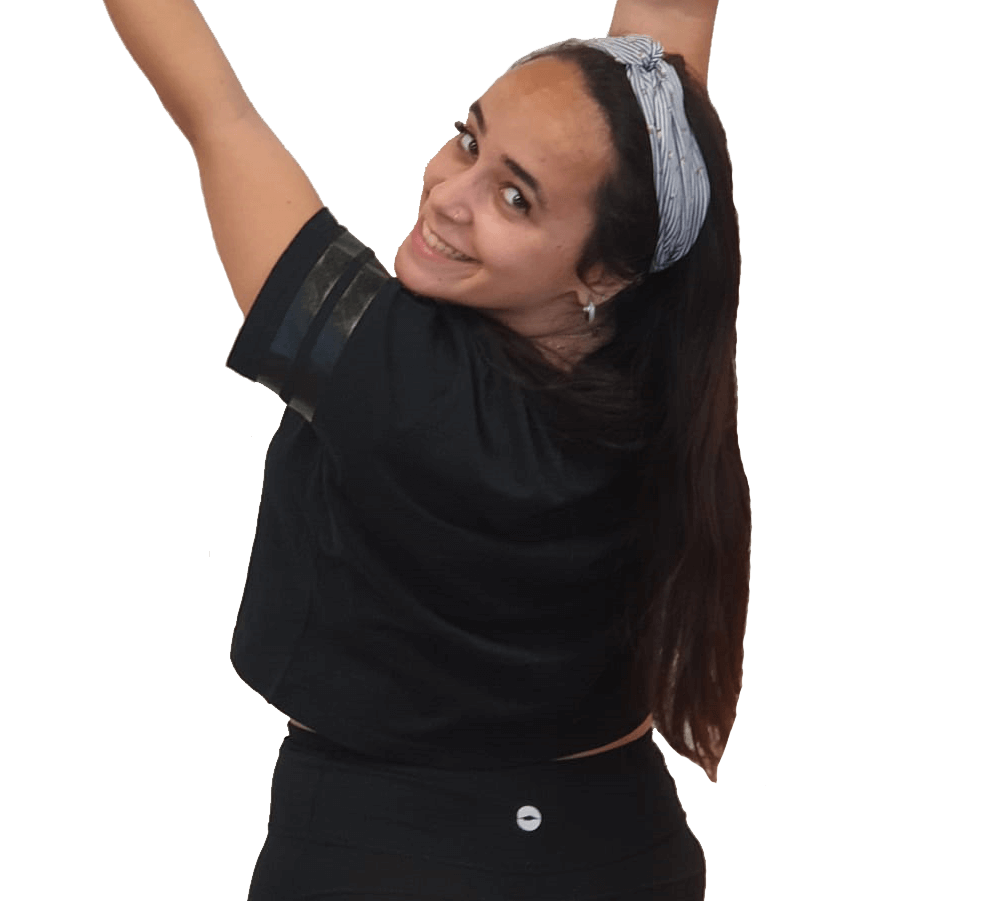
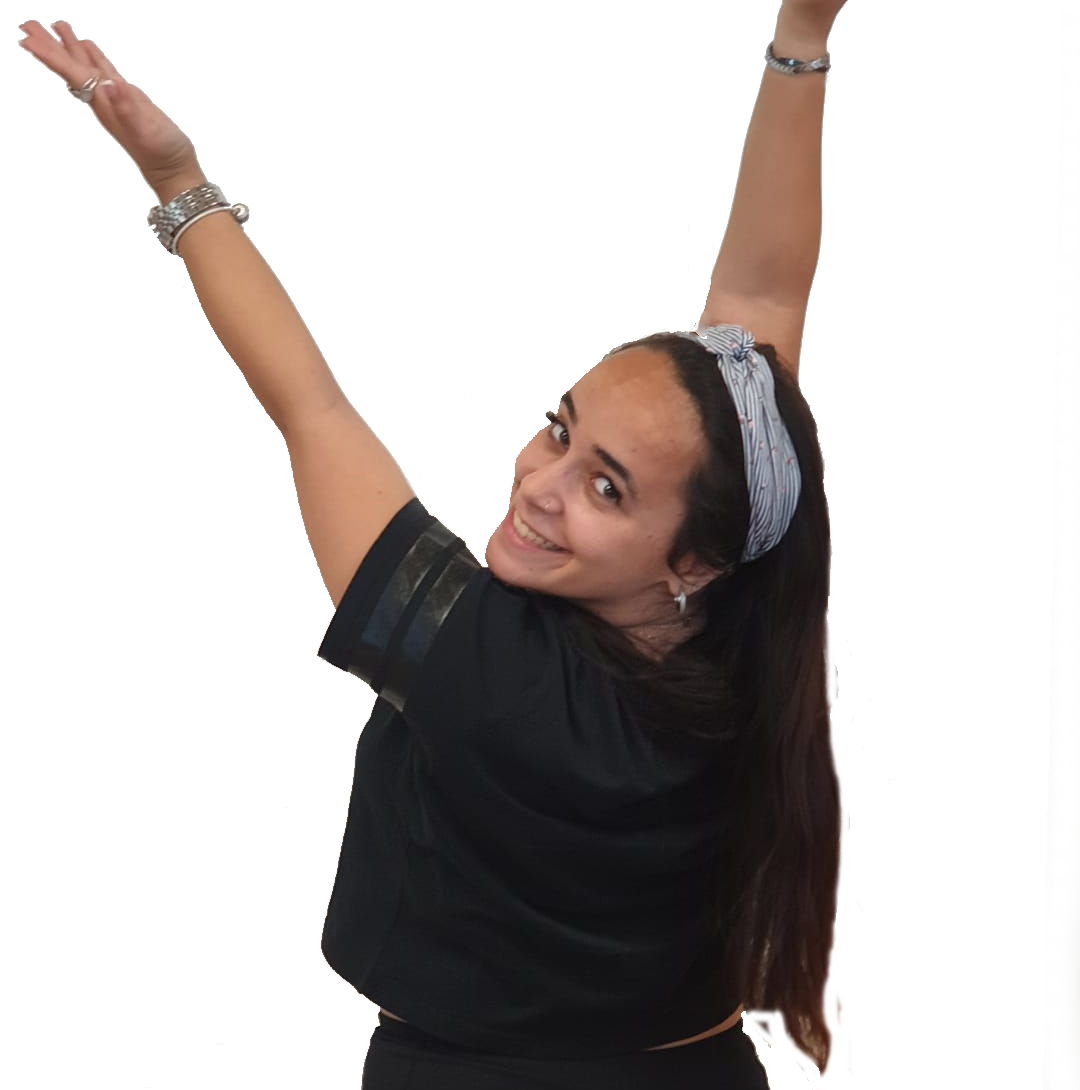
Add files via upload

Changed region(s): [[0.0, 0.0, 0.7887, 1.0], [0.5157, 0.8701, 0.546, 0.9323]]

diff --git a/Amitbageret/about.html b/Amitbageret/about.html
@@ -58,7 +58,7 @@
             <div class="row" style="margin-top: 160px;">
                 <div class="col-sm-12 col-lg-5" style="overflow: hidden;">
                     <div class="circleBase">
-                        <img src="images/girl-first.png" class="girl-home"  alt=" צילום של ליאת מביטה לאחור כשגבה מופנה אלינו ומרימה את ידיה">
+                        <img src="images/girl-left.png" class="girl-home"  alt=" צילום של ליאת מביטה לאחור כשגבה מופנה אלינו ומרימה את ידיה">
                     </div>
                 </div>
                 <div class="col-sm-12 col-lg-2">
@@ -67,14 +67,10 @@
                     <div class="home-slide">
                         <div class="my-slide">
                             <h1>
+							 <br>
                                     <span>
-									"המתבגרת"
-                                    </span>
-                                <br>
-								   האתר לנערה
-                                <br>
-								
-                                המתבגרת
+									אודותנו
+                                   </span>     								
 								
                             </h1>
                         </div>
@@ -93,18 +89,33 @@
                 <div class="col-1 no-padding bubbles-ver" style="background-position: right top;">
                 </div>
 
+				
+
+
+
 
                 <div class="col-10 no-padding">
 					
-					
-                    <div class="row">
+					<div class="col-12" style="color:#175352;">
+							<h2>על האתר שלנו</h2>					   
+											
+                            <h3>'המתבגרת' הוא האתר האולטימטיבי לבנות בגילאי העשרה אשר רוצות לחקור על השינויים שקורים להן, לחפש פתרונות התמודדות למשברים המקיפים אותן והכי חשוב, להבין שהן לא לבד. 
+							<br>
+							<br>
+							העיצוב והתכנים באתר תוכננו כך שהאתר יתאים לסביבתן הטבעית של הנערות, ובכך הן יוכלו להנות מחוויית גלישה מוכרת ונעימה.
+							
+							</h3>
+							<br>
+                            <h2>האתר פותח על ידי</h2>
+					</div>
+                    <div class="row mt-3">
 
                         <div class="col-sm-12 col-lg-4 mb-sm-3 mb-lg-0">
                             <article class="my-card">
                                 <header>
                                     <div class="row no-gutters">
                                         <div class="col-2">
-                                            <img src="images/eat-healthy.png" alt="אייקון של ירקות עם סטטוסקופ מסביב להם">
+                                            <img src="images/hit-logo.jpg" alt="אייקון של סמל המכון הטכנולוגי חולון">
                                         </div>
                                         <div class="col-8 text-center">
                                             <h1>שיראל דנינו</h1>
@@ -164,7 +175,7 @@
                                 <header>
                                     <div class="row no-gutters">
                                         <div class="col-2">
-                                            <img src="images/coping-logo.png" alt="ציור של גבר שעושה שריר עם ידו הימנית">
+                                            <img src="images/hit-logo.jpg" alt="אייקון של סמל המכון הטכנולוגי חולון">
                                         </div>
                                         <div class="col-8 text-center">
                                             <h1>צח נצר</h1>
@@ -180,7 +191,7 @@
                                     <div class="row">
                                         <div class="col-12">
                                             <div class="card-image">
-                                                <img src="images/my.jpg" class="featured-image" alt="צילום סלפי של צח בפארק הקשתות בארצות הברית" data-id="heart-2">
+                                                <img src="images/tzach.png" class="featured-image" alt="צילום סלפי של צח בפארק הקשתות בארצות הברית" data-id="heart-2">
                                                 <div class="heart-animation">
                                                     <img src="images/heart-animation.png" alt="אנימציה של לב מופיע ונעלם בלחיצה כפולה">
                                                 </div>
@@ -210,12 +221,12 @@
                                 </section>
                                 <footer>
                                     <div class="row">
-                                        <div class="col-6">
+                                        <div class="col-3">
                                             <img src="images/black-heart-empty.png" alt="לב ריק שמתמלא באדום בלחיצה" class="heart" width="40" id="heart-2">
                                         </div>
-                                        <div class="col-6 text-left">
+                                        <div class="col-9 text-left">
                                             <a href="index.html" class="button">
-                                               חזרה לדף הבית
+                                               לייצוג האינטרקטיבי
                                             </a>
                                         </div>
                                     </div>
@@ -228,7 +239,7 @@
                                 <header>
                                     <div class="row no-gutters">
                                         <div class="col-2">
-                                            <img src="images/info-logo.png" alt="אייקון עגול עם צילום של שלוש ראשים של בנות שוכבות ">
+                                            <img src="images/hit-logo.jpg" alt="אייקון של סמל המכון הטכנולוגי חולון">
                                         </div>
                                         <div class="col-8 text-center">
                                             <h1>ליאת בן יוסף</h1>
@@ -287,55 +298,51 @@
                             </article>
                         </div>
 
-                    <div class="row mt-3">
-                       <div class="col-12" style="color:#175352;">
-					   <div>
-							<h2>קצת על הפרוייקט...</h2>
-					   </div>
-						<ul>
-							<li>
-                            <h3>האתר מיועד לבנות בגיל העשרה (9-18) וכולל מאמרים בנושאים מגוונים הקשורים לגיל ההתבגרות</h3>
-							</li>
-							<li>
-                            <h3>פותח על ידי הסטודנטים: צח נצר, שיראל דנינו וליאת בן יוסף </h3>
-							</li>
-							<li>
-                            <h3>במסגרת פרויקט משולב לקורסים בשנה א', תשע"ט:</h3>
+                    <div class="row mt-5">
+                       <div class="col-12 mr-5" style="color:#175352;">
+					  
+							
+                            <h2>במסגרת פרויקט משולב לקורסים בשנה א', תשע"ט:</h2>
 								<ul>
 									<li>
-									<h4>אפיון ממשק וחווית משתמש</h4>
+									<h3>אפיון ממשק וחווית משתמש</h3>
 									</li>
-								</ul>
-								<ul>
+								
+								
 									<li>
-									<h4>עיצוב ממשק משתמש</h4>
+									<h3>עיצוב ממשק משתמש</h3>
 									</li>
-								</ul>
-								<ul>
+								
+								
 									<li>
-									<h4> פיתוח אתרי אינטרנט</h4>
+									<h3> פיתוח אתרי אינטרנט</h3>
 									</li>
-								</ul>
-								<ul>
+								
+								
 									<li>
-									<h4>נגישות למחשב - האתר פותח תוך התחשבות בעקרונות "נגישות אתרים לאנשים עם מוגבלות"</h4>
+									<h3>נגישות למחשב - האתר פותח תוך התחשבות בעקרונות "נגישות אתרים לאנשים עם מוגבלות"</h3>
 									</li>
 								</ul>							
 							</li>
-							<li>
-                             <h3>האתר אופיין ועוצב לפי עקרונות של "עיצוב ממשק" ופותח ב- HTML5, CSS3, Bootstrap ו- JQuery</h3>
-							</li>
-							<li>
-                             <h3>האתר כולל תוצר אינטראקטיבי לייצוג ידע המאופיין ומפותח בקורסים" ארגון וייצוג ידע" ו- "מבוא לתכנות אינטראקטיבי"</h3>
-							</li>
-							<li>
-                             <h3><a href="site-map.html" class="button">
+						
+                             <h2>האתר אופיין ועוצב לפי עקרונות של "עיצוב ממשק" ופותח ב:<br> HTML5, CSS3, Bootstrap ו- JQuery</h2>
+								<br>
+                             <h2>האתר כולל 
+							 <a href="file:///C:/Users/USER/Desktop/Amitbageret-17/interactive.html" ">תוצר אינטראקטיבי לייצוג ידע
+                                </a>
+								  המאופיין ומפותח בקורסים:
+								  <br>
+								  " ארגון וייצוג ידע" ו- "מבוא לתכנות אינטראקטיבי"
+							 </h2>
+								<br>
+							
+                             <h2><a href="site-map.html" class="button">
                                                למפת המסכים שפותחו באתר זה
                                 </a>
-							 </h3>
-							</li>                        
-						</ul>				   
-					 </div>
+							 </h2>
+							                     
+										   
+						</div>
 					</div>
 					
 					
@@ -348,13 +355,8 @@
 					   <a target="_blank" href="https://www.hit.ac.il/telem/overview"><h3>הפקולטה לטכנולוגיות למידה</h3></a>					   
 					 </div>  
 					   
-					</div>
-					
-					
-					
-					
-					
-					
+					</div>		
+
 					
                         <footer class="footer col-12 mt-3 pt-3 text-center">
 							
@@ -372,18 +374,20 @@
                                     <a href="site-map.html">
                                         מפת האתר
                                     </a>
+									|
+                                    <a href="interactive.html">
+                                        ייצוג אינטראקטיבי
+                                    </a>
                                 </p>
                           
                         </footer>
 
-                    </div>
-
-
-                </div>
+				</div>
+            
                 <div class="col-1 no-padding bubbles-ver" style="background-position: left top;">
                 </div>
-				
 			</div>
+			
 			<div class="row bubbles-h">
        
 			</div>

diff --git a/Amitbageret/interactive.html b/Amitbageret/interactive.html
@@ -1,0 +1,26 @@
+<!DOCTYPE html>
+<html lang="he">
+<head>
+    <meta charset="UTF-8">
+    <title>המתבגרת</title>
+    <link rel="icon" href="Images/favicon.png">
+    <link rel="stylesheet" href="css/bootstrap.min.css">
+    <link rel="stylesheet" type="text/css" href="slick/slick.css"/>
+    <link rel="stylesheet" type="text/css" href="slick/slick-theme.css"/>
+    <link rel="stylesheet" href="css/style.css">
+</head>
+<body>
+<div class="row">
+  <div class="col-12 interactive ">
+	
+		<iframe src="https://shirel1996.github.io/InteractiveDiets/final-work.html" style="border-style: none;width: 100%; height: 100%;"></iframe>
+	
+   </div>
+ </div>  
+</body>
+<script src="js/jquery-3.3.1.min.js"></script>
+<script src="js/popper.min.js"></script>
+<script src="js/bootstrap.min.js"></script>
+<script type="text/javascript" src="slick/slick.min.js"></script>
+<script src="js/script.js"></script>
+</html>

diff --git a/Amitbageret/index.html b/Amitbageret/index.html
@@ -999,6 +999,10 @@
                                     <a href="site-map.html">
                                         מפת האתר
                                     </a>
+									|
+                                    <a href="interactive.html">
+                                        ייצוג אינטראקטיבי
+                                    </a>
                                 </p>
                           
                         </footer>

diff --git a/Amitbageret/changes.html b/Amitbageret/changes.html
@@ -928,6 +928,10 @@
                         <a href="site-map.html">
                             מפת האתר
                         </a>
+						|
+                        <a href="interactive.html">
+                            ייצוג אינטראקטיבי
+                        </a>
                     </p>
 
                 </footer>

diff --git a/Amitbageret/contact.html b/Amitbageret/contact.html
@@ -146,6 +146,10 @@
                         <a href="site-map.html">
                             מפת האתר
                         </a>
+						|
+                        <a href="interactive.html">
+                            ייצוג אינטראקטיבי
+                        </a>
                     </p>
 
                 </footer>

diff --git a/Amitbageret/coping.html b/Amitbageret/coping.html
@@ -736,6 +736,10 @@
                         <a href="site-map.html">
                             מפת האתר
                         </a>
+						|
+                        <a href="interactive.html">
+                            ייצוג אינטראקטיבי
+                        </a>
                     </p>
 
                 </footer>

diff --git a/Amitbageret/info.html b/Amitbageret/info.html
@@ -721,6 +721,10 @@
                         <a href="site-map.html">
                             מפת האתר
                         </a>
+						|
+                        <a href="interactive.html">
+                            ייצוג אינטראקטיבי
+                        </a>
                     </p>
 
                 </footer>

diff --git a/Amitbageret/site-map.html b/Amitbageret/site-map.html
@@ -150,6 +150,10 @@
                         <a href="site-map.html">
                             מפת האתר
                         </a>
+						|
+                        <a href="interactive.html">
+                            ייצוג אינטראקטיבי
+                        </a>
                     </p>
 
                 </footer>

diff --git a/Amitbageret/healthy.html b/Amitbageret/healthy.html
@@ -722,6 +722,10 @@
                         <a href="site-map.html">
                             מפת האתר
                         </a>
+						|
+                        <a href="interactive.html">
+                           ייצוג אינטראקטיבי
+                        </a>
                     </p>
 
                 </footer>

diff --git a/Amitbageret/css/style.css b/Amitbageret/css/style.css
@@ -286,6 +286,14 @@ header nav ul li a.active{
 	color: blue;
 	cursor: pointer;
 }
+
+.interactive {
+	width: 1336px;
+	height: 640px;
+	overflow: hidden;
+	background-color: white;
+}
+
 @media (min-width: 576px) {
 
 }
